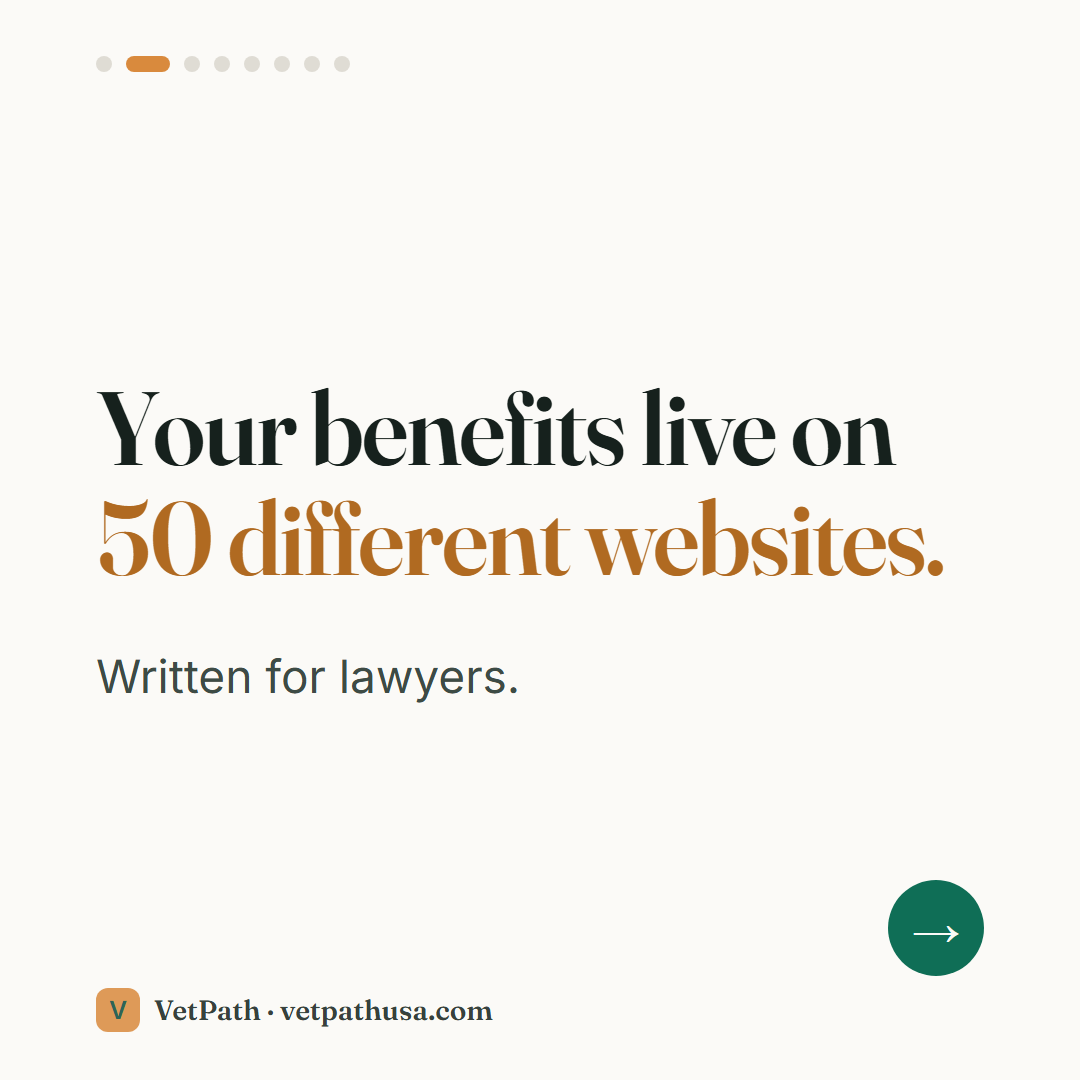
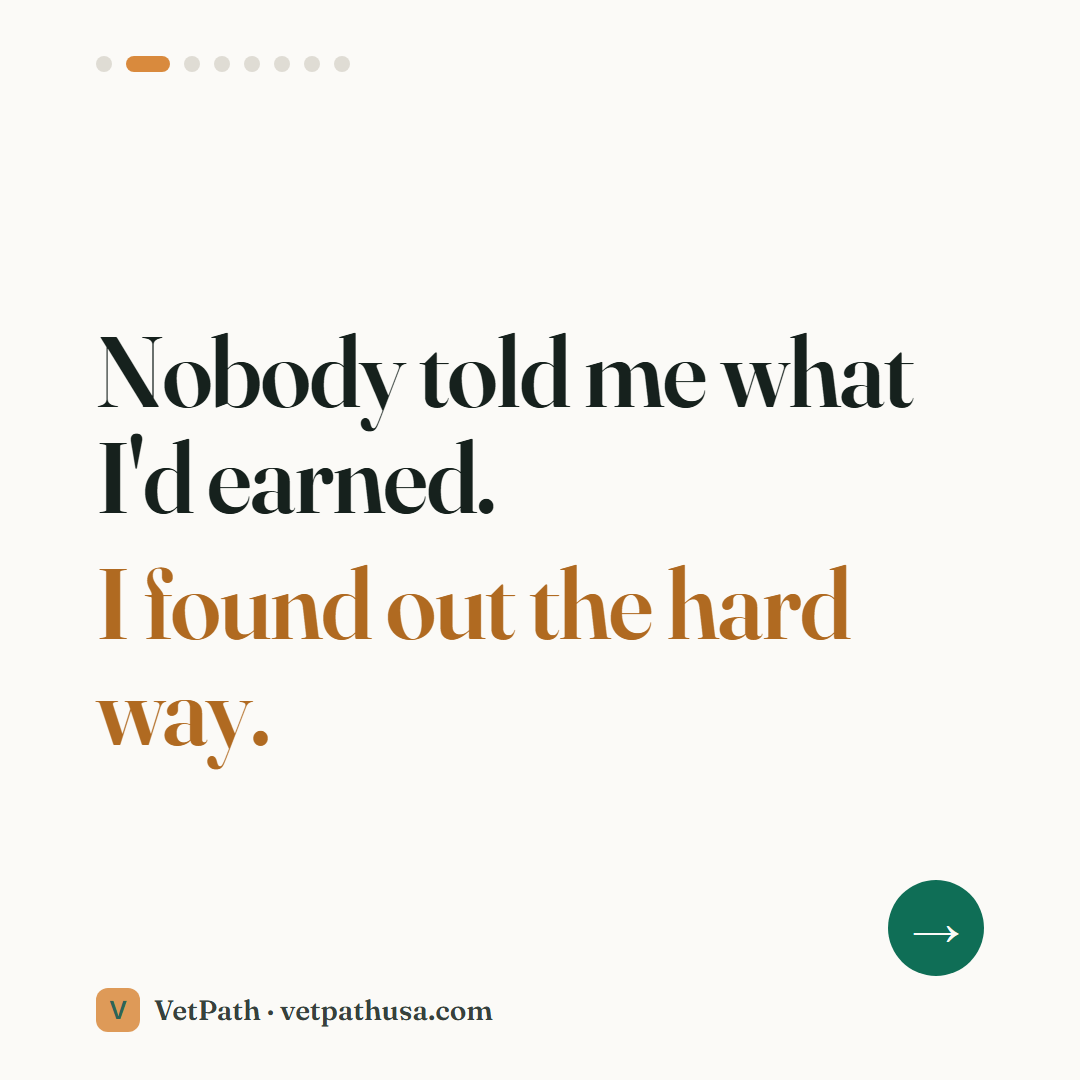
Carousel v3: Frank's first-person story arc
Rebuilt per Kaleb's direction - personal POV, his struggle to the
build: DD-214-and-no-plan hook, found-out-the-hard-way, the maze, the
day-one question, "my partner and I built it ourselves", product,
values, and a CTA that calls back to his story. Same engagement
mechanics as v2 (word counts, dots, arrows, save chip, single CTA).

Guardrail: no invented biography - lines are founding-story-true and
kept general; the kit now REQUIRES Frank's sign-off on slides 1-5 and
8 before posting, with a fast path for his exact wording and an
optional photo composite.

Changed region(s): [[0.0917, 0.3056, 0.8861, 0.7333]]

diff --git a/share/social/frank-social-post-kit.md b/share/social/frank-social-post-kit.md
@@ -3,8 +3,19 @@
 Eight slides live in this folder (vetpath-carousel-01 through 08, 1080x1080,
 upload in order). Built to carousel engagement research: one idea per
 slide, under 20 words per slide, swipe arrows through slide 7, a save
-prompt on slide 7, and exactly one CTA on slide 8. More swipes = more
-reach, which is why the deck is 8 short slides instead of 6 dense ones. Two captions below - LinkedIn and Facebook read
+prompt on slide 7, and exactly one CTA on slide 8.
+
+**THE DECK SPEAKS IN FRANK'S FIRST-PERSON VOICE. Frank must read and
+approve slides 1-5 and 8 before anything posts** - they are his story
+in his words ("I left the service with a DD-214 and no plan", "I found
+out the hard way", "my partner and I built it ourselves", "don't learn
+it the hard way like I did"). The lines are written to be true of the
+founding story without inventing specifics, but they go out over his
+name: if any line isn't how he'd say it, send the exact wording he
+wants and the slide regenerates in minutes. Upgrades that make it hit
+harder, if he's willing: his service branch named on slide 1, and a
+real photo of him (service-era or current) swapped onto slide 1 or 5 -
+send the photo and it gets composited. Two captions below - LinkedIn and Facebook read
 differently on purpose. Square brackets are the only words Frank needs
 to add. **Use the exact links given** - the tags are how we learn which
 platform actually sends veterans.
@@ -70,14 +81,14 @@ government.)
 
 ## Alt text (paste one per slide - accessibility matters to this audience)
 
-1. "Leaving the military? Nobody hands you the plan." VetPath.
-2. "Your benefits live on 50 different websites. Written for lawyers."
-3. "Most veterans find out what they earned years too late."
-4. "Why we built VetPath - the thing you should've been handed on day one."
-5. "10 minutes becomes your 30/60/90-day plan. Benefits, career, deadlines, cited to official sources."
-6. "Type your EAS date. Every deadline lands on a real calendar."
-7. "Free, always. No ads, nothing sold to you. Claims go to accredited help, never paid consultants. Save this for someone separating soon."
-8. "vetpathusa.com - free, no app, any phone. Tap the link in this post. A planning tool, not the VA, not government-affiliated."
+1. "From one veteran to another: I left the service with a DD-214 and no plan." VetPath.
+2. "Nobody told me what I'd earned. I found out the hard way."
+3. "Benefits on 50 websites. Deadlines I didn't know existed."
+4. "I kept asking: why doesn't anyone hand you this on day one?"
+5. "So we stopped waiting. My partner and I built it ourselves. VetPath - the plan I wish I'd been handed."
+6. "10 minutes becomes your 30/60/90-day plan. Benefits, career, deadlines, every number cited to official sources."
+7. "Free. Always. That's the point. No ads, nothing sold to you, claims go to accredited help. Save this for someone separating soon."
+8. "Don't learn it the hard way like I did. vetpathusa.com - free, no app, 10 minutes. A planning tool, not the VA."
 
 ---
 
